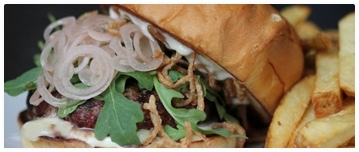
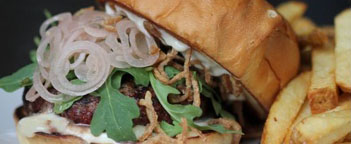
adding card images

diff --git a/client/application/application.html b/client/application/application.html
@@ -37,6 +37,7 @@
             	{{#each quests}}
 	            	<li class="card">
 	            		<div class="top">
+	            			<img src="quest-burgers.jpg">
 	            			<p class="label oswald">Food & Drink</p>
 	            			<p class="name">{{name}}</p>
 	            		</div>

diff --git a/client/styles/base.scss b/client/styles/base.scss
@@ -140,6 +140,9 @@ ul {
 		height: 144px;
 		position: relative;
 		background: lightgrey;
+		img {
+		  width: 100%;
+		}
 		.label {
 		  background: pink;
 		  padding: 3px 10px;
